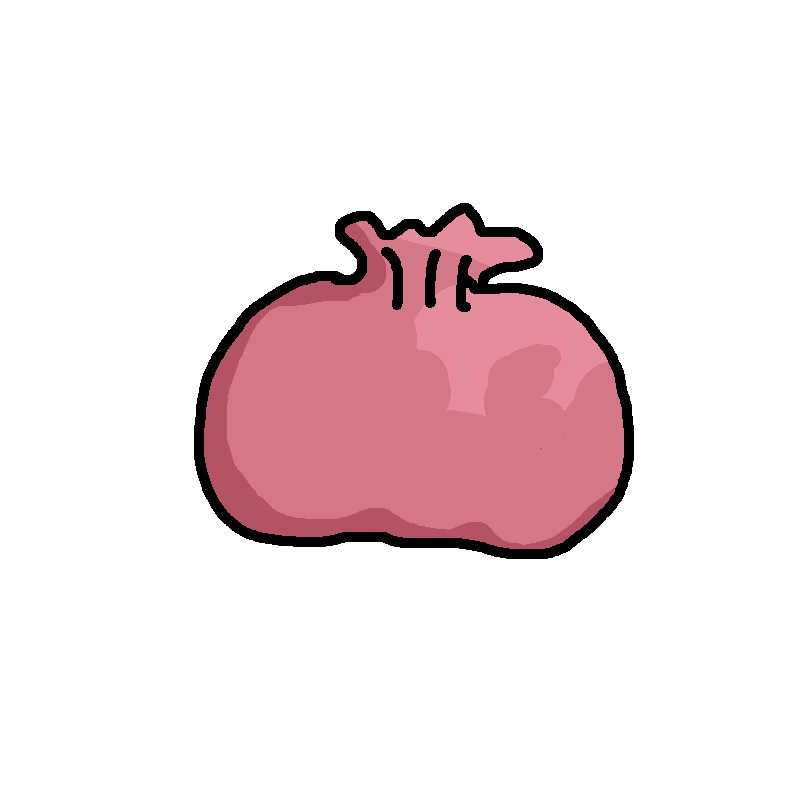
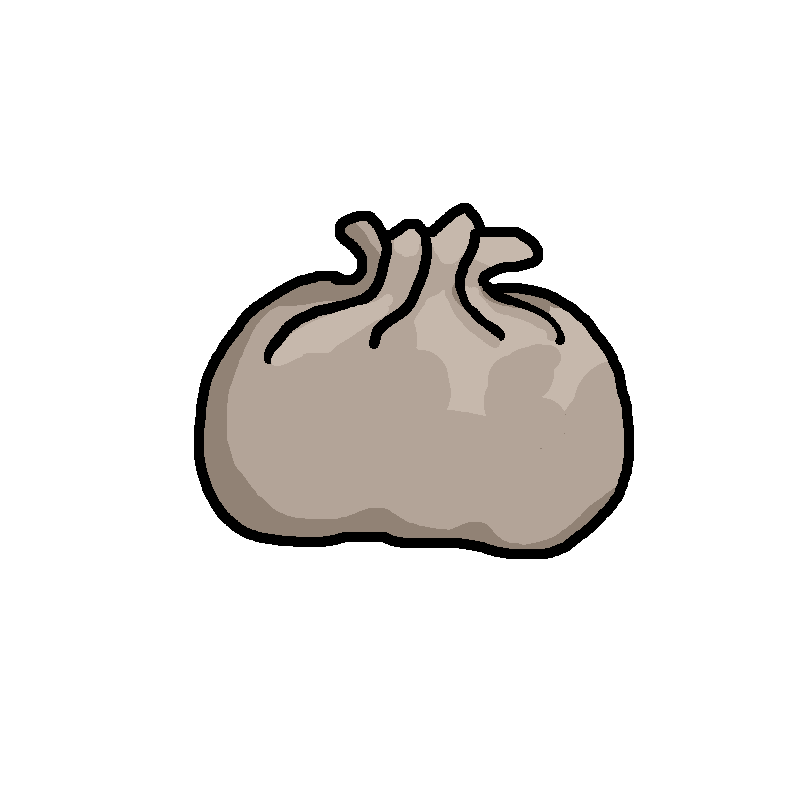
fixed: 忘了

Changed region(s): [[0.2475, 0.2475, 0.7735, 0.6807]]

diff --git a/Assets/Tiny Creatures.md b/Assets/Tiny Creatures.md
@@ -1,44 +1,41 @@
 # 人物
 
-|   人物   | 速度上限（1 - 10） | 生命值（1 / 2 / 3） | 运气（1 - 10） |                  机制                  |
-| :------: | :----------------: | :-----------------: | :------------: | :------------------------------------: |
-|   咸鱼   |         9          |          2          |       7        |     速度快，但是走着走着停下来休息     |
-| 薯条海鸥 |         7          |          2          |       7        |       前方有食物时，移动速度加快       |
-|   鸭脖   |         6          |          2          |       5        |        当鸭脖被吃掉，使怪物加速        |
-|   披萨   |         6          |          3          |       6        |           一边移动，一边进食           |
-|  玉米片  |         8          |          2          |       8        |     受到 喇叭 汽水 鸡蛋 的影响翻倍     |
-|  正方形  |         8          |          2          |       8        |                   无                   |
-|   圆形   |         7          |          2          |       9        |       不会被绊倒，而是会向前滚动       |
-| 复活石像 |         6          |          1          |       8        |      死亡后随机刷新在跑道某个位置      |
-| 饺子/醋  |         7          |          2          |       7        |      召唤一瓶醋承受伤害（有 CD）       |
-|   海胆   |         9          |          2          |       7        |   不受香蕉皮影响，但是会减少最大速度   |
-|   柠檬   |         6          |          2          |       8        |   受伤时，使所有 creatures 停滞一下    |
-|   兔子   |         8          |          2          |       10       |             100% 跨越石头              |
-|   苹果   |         8          |          2          |       8        |              不受冰面影响              |
-|   眼睛   |         7          |          2          |       8        |       会主动停下等待发疯的牛通过       |
-|    脚    |         9          |          2          |       6        | 一直流血；当脚被吃掉，使怪物停滞一小会 |
-|    猫    |         6          |          2          |       5        |              猫有 9 条命               |
-|  诺基亚  |         7          |          3          |       6        | 被机关攻击不会受伤，但是会暂停重新起步 |
-|    狗    |         7          |          2          |       8        |             喇叭会使狗加速             |
-|  米老鼠  |         7          |          2          |       8        |      开局后，随机变成另外一个角色      |
-|   乌龟   |         6          |          3          |       8        |      当在兔子后方时，移动速度加快      |
+|   人物   | 速度上限 | 生命值 | 运气 |                  机制                  |                                  说明                                  |
+| :------: | :------: | :----: | :--: | :------------------------------------: | :--------------------------------------------------------------------: |
+|   咸鱼   |    9     |   2    |  7   |     速度快，但是走着走着停下来休息     | I have a dream, and if you don’t mind, I need to go to bed to find it. |
+| 薯条海鸥 |    7     |   2    |  7   |       前方有食物时，移动速度加快       |              What's the meaning of life? Get some chips!               |
+|   鸭脖   |    6     |   2    |  5   |  <del> 当鸭脖被吃掉，使怪物加速</del>  |                                 Yummy.                                 |
+|   披萨   |    6     |   3    |  6   |           一边移动，一边进食           |         DingDing! Your Spider-man pizza delivery has arrived!          |
+|  玉米片  |    8     |   2    |  8   |     受到 喇叭 汽水 鸡蛋 的影响翻倍     |              Party time! Bring your horn, cola, and egg!               |
+|  正方形  |    8     |   2    |  8   |                   无                   |                              He just run.                              |
+|   圆形   |    7     |   2    |  9   |       不会被绊倒，而是会向前滚动       |               What cannot destroy you makes you quicker.               |
+| 复活石像 |    6     |   1    |  8   |      死亡后随机刷新在跑道某个位置      |                 Dum dum, give me a resurrect gum gum.                  |
+| 饺子/醋  |    7     |   2    |  7   |      召唤一瓶醋承受伤害（有 CD）       |                The dumplings are made for the vinegar.                 |
+|   海胆   |    9     |   2    |  7   |   不受香蕉皮影响，但是会减少最大速度   |                         Banana peel collector.                         |
+|   兔子   |    8     |   2    |  10  |             100% 跨越石头              |                            Officer Hopper.                             |
+|   苹果   |    8     |   2    |  8   |              不受冰面影响              |                     It reveals there's no gravity.                     |
+|   眼睛   |    7     |   2    |  8   |       会主动停下等待发疯的牛通过       |                   Eye of Sauron can see everything.                    |
+|    脚    |    9     |   2    |  6   | 一直流血；当脚被吃掉，使怪物停滞一小会 |                              Disgusting.                               |
+|    猫    |    6     |   2    |  5   |              猫有 9 条命               |                         A cat has nine lives.                          |
+|  诺基亚  |    7     |   3    |  6   | 被机关攻击不会受伤，但是会暂停重新起步 |                     Fusion reactor shell material.                     |
+|  米老鼠  |    7     |   2    |  8   |      开局后，随机变成另外一个角色      | You are approching a copyright© infringement, please adjust your face. |
+|   乌龟   |    6     |   3    |  8   |      当在兔子后方时，移动速度加快      |                       Rabbit-jealousy-syndrome.                        |
 
 # 地图机关
 
 |     机关     |         关联道具         |                       描述                       |
 | :----------: | :----------------------: | :----------------------------------------------: |
 |     石头     |        汽水，鸡蛋        | 需要 creature 起跳跨越，有一定概率被绊倒踉跄一下 |
-|   发疯的牛   | 喇叭，汽水，香蕉皮，鸡蛋 |             被打到的 creature 会冲击             |
+|   穿梭烟花   | 喇叭，汽水，香蕉皮，鸡蛋 |             被打到的 creature 会冲击             |
 | 冰面（地面） |                          |           加速度减少，滑倒后会一路向前           |
-|     彩弹     |                          |           影响视野，缩小玩家的视野范围           |
 |     食物     |                          |    吃食物，恢复所有生命值，但是暂停自己的行动    |
 
 # 道具
 
-|      道具      | 价格 |                   描述                   |
-| :------------: | :--: | :--------------------------------------: |
-|      喇叭      |      |        使全部 creature 停止一小会        |
-|      汽水      |      |  让 creature 向前冲刺一小段距离（无敌）  |
-| 香蕉皮（地面） |      | 让 creature 跳起原地旋转一周（打掉棒子） |
-|     吹泡泡     |      |       使 creature 获得一个免疫护盾       |
-|      棒子      |      |          攻击追赶到的 creature           |
+|      道具      | 稀有度 |                   描述                   |
+| :------------: | :----: | :--------------------------------------: |
+|      喇叭      |   2    |        使全部 creature 停止一小会        |
+|      汽水      |   2    |  让 creature 向前冲刺一小段距离（无敌）  |
+| 香蕉皮（地面） |   1    | 让 creature 跳起原地旋转一周（打掉棒子） |
+|     吹泡泡     |   5    |       使 creature 获得一个免疫护盾       |
+|      棒子      |   1    |          攻击追赶到的 creature           |